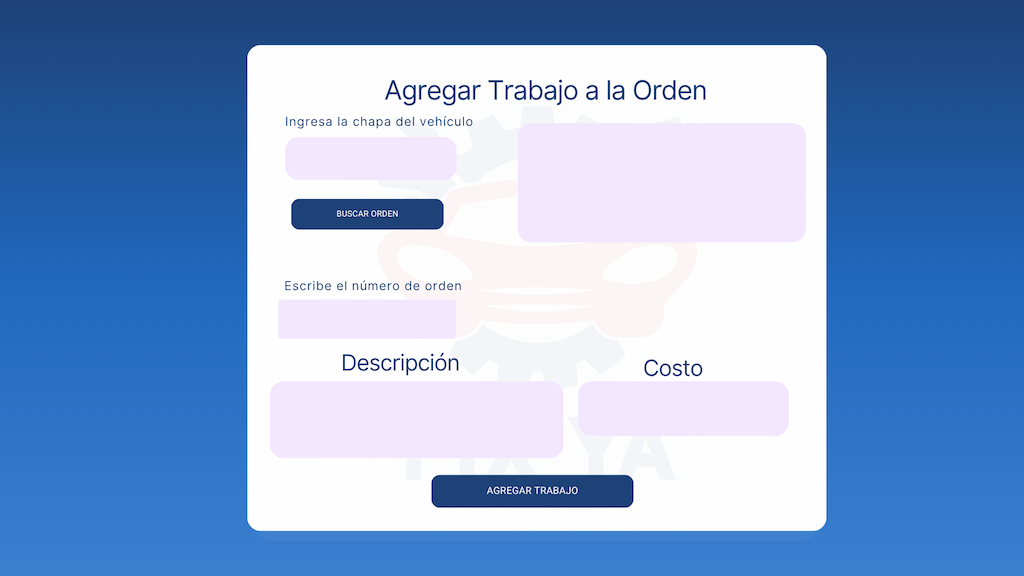
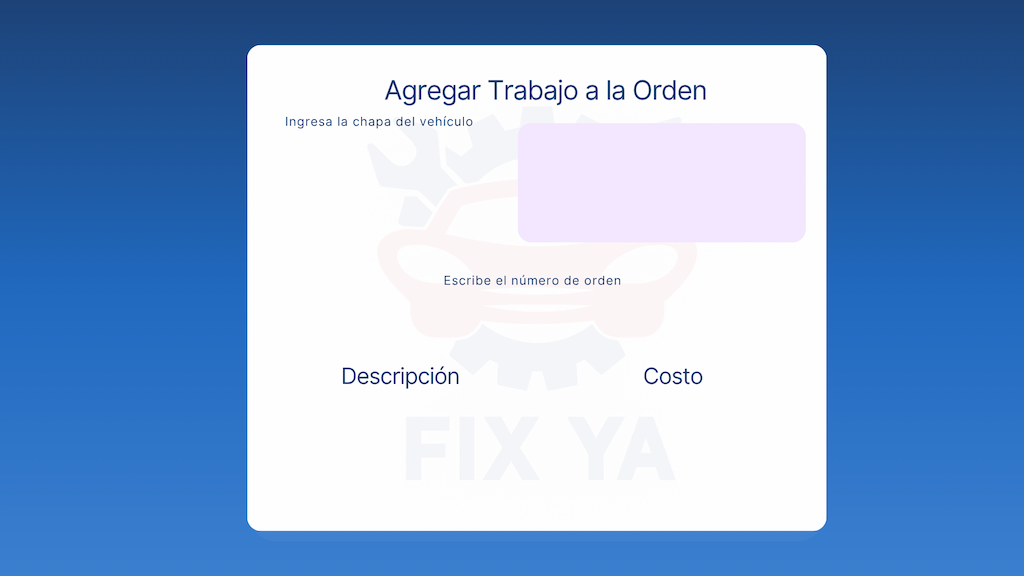
Detalles finales Frames

diff --git a/src/main/java/com/mycompany/fixya/CrearVehiculoFrame.java b/src/main/java/com/mycompany/fixya/CrearVehiculoFrame.java
@@ -61,19 +61,24 @@ public class CrearVehiculoFrame extends javax.swing.JFrame {
                 fabricanteFieldActionPerformed(evt);
             }
         });
-        bg.add(fabricanteField, new org.netbeans.lib.awtextra.AbsoluteConstraints(300, 110, 380, 50));
+        bg.add(fabricanteField, new org.netbeans.lib.awtextra.AbsoluteConstraints(300, 120, 380, 40));
 
         modeloField.addActionListener(new java.awt.event.ActionListener() {
             public void actionPerformed(java.awt.event.ActionEvent evt) {
                 modeloFieldActionPerformed(evt);
             }
         });
-        bg.add(modeloField, new org.netbeans.lib.awtextra.AbsoluteConstraints(300, 180, 380, 50));
-        bg.add(anioField, new org.netbeans.lib.awtextra.AbsoluteConstraints(300, 250, 380, 50));
-        bg.add(chapaField, new org.netbeans.lib.awtextra.AbsoluteConstraints(300, 330, 380, 50));
+        bg.add(modeloField, new org.netbeans.lib.awtextra.AbsoluteConstraints(300, 190, 380, 40));
+        bg.add(anioField, new org.netbeans.lib.awtextra.AbsoluteConstraints(300, 260, 380, 40));
+        bg.add(chapaField, new org.netbeans.lib.awtextra.AbsoluteConstraints(300, 330, 380, 40));
 
         dniField.setToolTipText("");
-        bg.add(dniField, new org.netbeans.lib.awtextra.AbsoluteConstraints(300, 400, 380, 50));
+        dniField.addActionListener(new java.awt.event.ActionListener() {
+            public void actionPerformed(java.awt.event.ActionEvent evt) {
+                dniFieldActionPerformed(evt);
+            }
+        });
+        bg.add(dniField, new org.netbeans.lib.awtextra.AbsoluteConstraints(300, 410, 380, 40));
 
         registrarVehiculoBtn.setBackground(new java.awt.Color(51, 102, 255));
         registrarVehiculoBtn.setFont(new java.awt.Font("Helvetica Neue", 1, 18)); // NOI18N
@@ -85,9 +90,9 @@ public class CrearVehiculoFrame extends javax.swing.JFrame {
                 registrarVehiculoBtnActionPerformed(evt);
             }
         });
-        bg.add(registrarVehiculoBtn, new org.netbeans.lib.awtextra.AbsoluteConstraints(410, 460, 220, 50));
+        bg.add(registrarVehiculoBtn, new org.netbeans.lib.awtextra.AbsoluteConstraints(550, 460, 210, 40));
 
-        imagen.setIcon(new javax.swing.ImageIcon(getClass().getResource("/RegistrarVehiculo.png"))); // NOI18N
+        imagen.setIcon(new javax.swing.ImageIcon(getClass().getResource("/RegistrarVehiculo (1).png"))); // NOI18N
         bg.add(imagen, new org.netbeans.lib.awtextra.AbsoluteConstraints(0, 0, -1, 570));
 
         javax.swing.GroupLayout layout = new javax.swing.GroupLayout(getContentPane());
@@ -125,6 +130,10 @@ public class CrearVehiculoFrame extends javax.swing.JFrame {
         new MenuVehiculoFrame().setVisible(true);
         dispose();
     }//GEN-LAST:event_volverBtnActionPerformed
+
+    private void dniFieldActionPerformed(java.awt.event.ActionEvent evt) {//GEN-FIRST:event_dniFieldActionPerformed
+        // TODO add your handling code here:
+    }//GEN-LAST:event_dniFieldActionPerformed
 
     public void registrarVehiculo(){
     String fabricante = fabricanteField.getText();

diff --git a/src/main/java/com/mycompany/fixya/CambiarEstadoOrdenFrame.java b/src/main/java/com/mycompany/fixya/CambiarEstadoOrdenFrame.java
@@ -56,7 +56,7 @@ public class CambiarEstadoOrdenFrame extends javax.swing.JFrame {
                 ordenIdFieldActionPerformed(evt);
             }
         });
-        jPanel1.add(ordenIdField, new org.netbeans.lib.awtextra.AbsoluteConstraints(280, 330, 210, 50));
+        jPanel1.add(ordenIdField, new org.netbeans.lib.awtextra.AbsoluteConstraints(290, 330, 180, 40));
 
         buscarOrdenBtn.setBackground(new java.awt.Color(51, 102, 255));
         buscarOrdenBtn.setFont(new java.awt.Font("Helvetica Neue", 1, 18)); // NOI18N
@@ -69,7 +69,7 @@ public class CambiarEstadoOrdenFrame extends javax.swing.JFrame {
                 buscarOrdenBtnActionPerformed(evt);
             }
         });
-        jPanel1.add(buscarOrdenBtn, new org.netbeans.lib.awtextra.AbsoluteConstraints(310, 220, 160, 40));
+        jPanel1.add(buscarOrdenBtn, new org.netbeans.lib.awtextra.AbsoluteConstraints(300, 210, 160, 40));
 
         estadosComboBox.setModel(new javax.swing.DefaultComboBoxModel<>(new String[] { "Espera", "Proceso", "Terminada" }));
         estadosComboBox.addActionListener(new java.awt.event.ActionListener() {
@@ -77,7 +77,7 @@ public class CambiarEstadoOrdenFrame extends javax.swing.JFrame {
                 estadosComboBoxActionPerformed(evt);
             }
         });
-        jPanel1.add(estadosComboBox, new org.netbeans.lib.awtextra.AbsoluteConstraints(550, 330, 200, 50));
+        jPanel1.add(estadosComboBox, new org.netbeans.lib.awtextra.AbsoluteConstraints(540, 330, 210, 40));
 
         chapaField.setHorizontalAlignment(javax.swing.JTextField.CENTER);
         chapaField.addActionListener(new java.awt.event.ActionListener() {
@@ -85,7 +85,7 @@ public class CambiarEstadoOrdenFrame extends javax.swing.JFrame {
                 chapaFieldActionPerformed(evt);
             }
         });
-        jPanel1.add(chapaField, new org.netbeans.lib.awtextra.AbsoluteConstraints(300, 150, 170, 50));
+        jPanel1.add(chapaField, new org.netbeans.lib.awtextra.AbsoluteConstraints(290, 150, 180, 40));
 
         cambiarEstadoOrdenBtn.setBackground(new java.awt.Color(51, 102, 255));
         cambiarEstadoOrdenBtn.setFont(new java.awt.Font("Helvetica Neue", 1, 18)); // NOI18N
@@ -98,9 +98,9 @@ public class CambiarEstadoOrdenFrame extends javax.swing.JFrame {
                 cambiarEstadoOrdenBtnActionPerformed(evt);
             }
         });
-        jPanel1.add(cambiarEstadoOrdenBtn, new org.netbeans.lib.awtextra.AbsoluteConstraints(420, 400, 220, 50));
+        jPanel1.add(cambiarEstadoOrdenBtn, new org.netbeans.lib.awtextra.AbsoluteConstraints(420, 420, 220, 50));
 
-        jLabel1.setIcon(new javax.swing.ImageIcon(getClass().getResource("/AgregarTrabajoOrden.Mejoradopng.png"))); // NOI18N
+        jLabel1.setIcon(new javax.swing.ImageIcon(getClass().getResource("/Agregar Trabajo Orden (2).png"))); // NOI18N
         jPanel1.add(jLabel1, new org.netbeans.lib.awtextra.AbsoluteConstraints(0, 0, 1020, 570));
 
         ordenesTable.setModel(new javax.swing.table.DefaultTableModel(

diff --git a/src/main/java/com/mycompany/fixya/AgregarTrabajoOrdenFrame.java b/src/main/java/com/mycompany/fixya/AgregarTrabajoOrdenFrame.java
@@ -55,10 +55,10 @@ public class AgregarTrabajoOrdenFrame extends javax.swing.JFrame {
         jPanel1.setLayout(new org.netbeans.lib.awtextra.AbsoluteLayout());
 
         descripcionField.setHorizontalAlignment(javax.swing.JTextField.CENTER);
-        jPanel1.add(descripcionField, new org.netbeans.lib.awtextra.AbsoluteConstraints(270, 380, 300, 80));
+        jPanel1.add(descripcionField, new org.netbeans.lib.awtextra.AbsoluteConstraints(270, 390, 290, 70));
 
         costoField.setHorizontalAlignment(javax.swing.JTextField.CENTER);
-        jPanel1.add(costoField, new org.netbeans.lib.awtextra.AbsoluteConstraints(580, 380, 210, 50));
+        jPanel1.add(costoField, new org.netbeans.lib.awtextra.AbsoluteConstraints(580, 390, 210, 40));
 
         chapaField.setHorizontalAlignment(javax.swing.JTextField.CENTER);
         chapaField.setToolTipText("");
@@ -67,10 +67,10 @@ public class AgregarTrabajoOrdenFrame extends javax.swing.JFrame {
                 chapaFieldActionPerformed(evt);
             }
         });
-        jPanel1.add(chapaField, new org.netbeans.lib.awtextra.AbsoluteConstraints(280, 130, 190, 50));
+        jPanel1.add(chapaField, new org.netbeans.lib.awtextra.AbsoluteConstraints(280, 130, 190, 40));
 
         idOrdenField.setHorizontalAlignment(javax.swing.JTextField.CENTER);
-        jPanel1.add(idOrdenField, new org.netbeans.lib.awtextra.AbsoluteConstraints(270, 290, 190, 50));
+        jPanel1.add(idOrdenField, new org.netbeans.lib.awtextra.AbsoluteConstraints(400, 290, 280, 40));
 
         buscarOrden.setBackground(new java.awt.Color(51, 102, 255));
         buscarOrden.setFont(new java.awt.Font("Helvetica Neue", 1, 18)); // NOI18N
@@ -83,7 +83,7 @@ public class AgregarTrabajoOrdenFrame extends javax.swing.JFrame {
                 buscarOrdenActionPerformed(evt);
             }
         });
-        jPanel1.add(buscarOrden, new org.netbeans.lib.awtextra.AbsoluteConstraints(280, 190, 180, 40));
+        jPanel1.add(buscarOrden, new org.netbeans.lib.awtextra.AbsoluteConstraints(280, 180, 180, 40));
 
         agregarTrabajoBtn.setBackground(new java.awt.Color(51, 102, 255));
         agregarTrabajoBtn.setFont(new java.awt.Font("Helvetica Neue", 1, 18)); // NOI18N

diff --git a/src/main/java/com/mycompany/fixya/BuscarOrdenFrame.java b/src/main/java/com/mycompany/fixya/BuscarOrdenFrame.java
@@ -33,7 +33,6 @@ public class BuscarOrdenFrame extends javax.swing.JFrame {
         volverBtn = new javax.swing.JButton();
         buscarOrdenBtn = new javax.swing.JButton();
         chapaField = new javax.swing.JTextField();
-        ocultarFondoPanel = new javax.swing.JPanel();
         jLabel1 = new javax.swing.JLabel();
         jScrollPane1 = new javax.swing.JScrollPane();
         ordenesTable = new javax.swing.JTable();
@@ -74,22 +73,6 @@ public class BuscarOrdenFrame extends javax.swing.JFrame {
             }
         });
         bg.add(chapaField, new org.netbeans.lib.awtextra.AbsoluteConstraints(340, 130, 390, 60));
-
-        ocultarFondoPanel.setBackground(new java.awt.Color(255, 255, 255));
-        ocultarFondoPanel.setForeground(new java.awt.Color(255, 255, 255));
-
-        javax.swing.GroupLayout ocultarFondoPanelLayout = new javax.swing.GroupLayout(ocultarFondoPanel);
-        ocultarFondoPanel.setLayout(ocultarFondoPanelLayout);
-        ocultarFondoPanelLayout.setHorizontalGroup(
-            ocultarFondoPanelLayout.createParallelGroup(javax.swing.GroupLayout.Alignment.LEADING)
-            .addGap(0, 430, Short.MAX_VALUE)
-        );
-        ocultarFondoPanelLayout.setVerticalGroup(
-            ocultarFondoPanelLayout.createParallelGroup(javax.swing.GroupLayout.Alignment.LEADING)
-            .addGap(0, 260, Short.MAX_VALUE)
-        );
-
-        bg.add(ocultarFondoPanel, new org.netbeans.lib.awtextra.AbsoluteConstraints(340, 250, 430, 260));
 
         jLabel1.setBackground(new java.awt.Color(255, 255, 255));
         jLabel1.setIcon(new javax.swing.ImageIcon(getClass().getResource("/BuscarOrden (1).png"))); // NOI18N
@@ -177,7 +160,6 @@ public class BuscarOrdenFrame extends javax.swing.JFrame {
     private javax.swing.JTextField chapaField;
     private javax.swing.JLabel jLabel1;
     private javax.swing.JScrollPane jScrollPane1;
-    private javax.swing.JPanel ocultarFondoPanel;
     private javax.swing.JTable ordenesTable;
     private javax.swing.JButton volverBtn;
     // End of variables declaration//GEN-END:variables

diff --git a/src/main/java/com/mycompany/fixya/VerTrabajosPorOrdenFrame.java b/src/main/java/com/mycompany/fixya/VerTrabajosPorOrdenFrame.java
@@ -45,7 +45,7 @@ public class VerTrabajosPorOrdenFrame extends javax.swing.JFrame {
 
         bg.setPreferredSize(new java.awt.Dimension(1020, 570));
         bg.setLayout(new org.netbeans.lib.awtextra.AbsoluteLayout());
-        bg.add(ordenIdField, new org.netbeans.lib.awtextra.AbsoluteConstraints(480, 260, 150, 50));
+        bg.add(ordenIdField, new org.netbeans.lib.awtextra.AbsoluteConstraints(490, 270, 130, 30));
 
         verTrabajosBtn.setBackground(new java.awt.Color(51, 102, 255));
         verTrabajosBtn.setFont(new java.awt.Font("Helvetica Neue", 1, 18)); // NOI18N
@@ -58,8 +58,8 @@ public class VerTrabajosPorOrdenFrame extends javax.swing.JFrame {
                 verTrabajosBtnActionPerformed(evt);
             }
         });
-        bg.add(verTrabajosBtn, new org.netbeans.lib.awtextra.AbsoluteConstraints(640, 270, 160, 40));
-        bg.add(chapaField, new org.netbeans.lib.awtextra.AbsoluteConstraints(300, 160, 180, 50));
+        bg.add(verTrabajosBtn, new org.netbeans.lib.awtextra.AbsoluteConstraints(630, 270, 160, 40));
+        bg.add(chapaField, new org.netbeans.lib.awtextra.AbsoluteConstraints(300, 160, 180, 40));
 
         buscarOrdenBtn.setBackground(new java.awt.Color(51, 102, 255));
         buscarOrdenBtn.setFont(new java.awt.Font("Helvetica Neue", 1, 18)); // NOI18N
@@ -85,7 +85,7 @@ public class VerTrabajosPorOrdenFrame extends javax.swing.JFrame {
         });
         bg.add(volverBtn, new org.netbeans.lib.awtextra.AbsoluteConstraints(30, 530, -1, -1));
 
-        jLabel1.setIcon(new javax.swing.ImageIcon(getClass().getResource("/TrabajosDeLaOrden.png"))); // NOI18N
+        jLabel1.setIcon(new javax.swing.ImageIcon(getClass().getResource("/Agregar Trabajo Orden (1).png"))); // NOI18N
         bg.add(jLabel1, new org.netbeans.lib.awtextra.AbsoluteConstraints(0, 0, -1, -1));
 
         ordenesTable.setModel(new javax.swing.table.DefaultTableModel(

diff --git a/src/main/java/com/mycompany/fixya/CrearClienteFrame.java b/src/main/java/com/mycompany/fixya/CrearClienteFrame.java
@@ -89,7 +89,7 @@ public class CrearClienteFrame extends javax.swing.JFrame {
                 crearClienteBtnActionPerformed(evt);
             }
         });
-        bg.add(crearClienteBtn, new org.netbeans.lib.awtextra.AbsoluteConstraints(570, 470, 220, 50));
+        bg.add(crearClienteBtn, new org.netbeans.lib.awtextra.AbsoluteConstraints(590, 480, 200, 40));
 
         dniField.setHorizontalAlignment(javax.swing.JTextField.CENTER);
         dniField.addActionListener(new java.awt.event.ActionListener() {
@@ -97,7 +97,7 @@ public class CrearClienteFrame extends javax.swing.JFrame {
                 dniFieldActionPerformed(evt);
             }
         });
-        bg.add(dniField, new org.netbeans.lib.awtextra.AbsoluteConstraints(340, 420, 370, 40));
+        bg.add(dniField, new org.netbeans.lib.awtextra.AbsoluteConstraints(340, 430, 370, 40));
 
         nombreField.setHorizontalAlignment(javax.swing.JTextField.CENTER);
         nombreField.addActionListener(new java.awt.event.ActionListener() {

diff --git a/src/main/java/com/mycompany/fixya/BuscarVehiculoFrame.java b/src/main/java/com/mycompany/fixya/BuscarVehiculoFrame.java
@@ -38,6 +38,7 @@ public class BuscarVehiculoFrame extends javax.swing.JFrame {
         vehiculosTable = new javax.swing.JTable();
 
         setDefaultCloseOperation(javax.swing.WindowConstants.EXIT_ON_CLOSE);
+        setResizable(false);
         getContentPane().setLayout(new org.netbeans.lib.awtextra.AbsoluteLayout());
 
         volverBtn.setBackground(new java.awt.Color(102, 102, 102));
@@ -84,6 +85,7 @@ public class BuscarVehiculoFrame extends javax.swing.JFrame {
         getContentPane().add(jScrollPane1, new org.netbeans.lib.awtextra.AbsoluteConstraints(340, 281, 430, 230));
 
         pack();
+        setLocationRelativeTo(null);
     }// </editor-fold>//GEN-END:initComponents
 
     private void volverBtnActionPerformed(java.awt.event.ActionEvent evt) {//GEN-FIRST:event_volverBtnActionPerformed

diff --git a/src/main/java/com/mycompany/fixya/MenuPrincipalFrame.java b/src/main/java/com/mycompany/fixya/MenuPrincipalFrame.java
@@ -91,7 +91,7 @@ public class MenuPrincipalFrame extends javax.swing.JFrame {
         });
         bg.add(menuOrdenesBtn, new org.netbeans.lib.awtextra.AbsoluteConstraints(660, 390, 120, 30));
 
-        imagen.setIcon(new javax.swing.ImageIcon(getClass().getResource("/Menuprincipal.png"))); // NOI18N
+        imagen.setIcon(new javax.swing.ImageIcon(getClass().getResource("/CrearCuenta2 (1).png"))); // NOI18N
         bg.add(imagen, new org.netbeans.lib.awtextra.AbsoluteConstraints(0, 0, 1020, 580));
 
         javax.swing.GroupLayout layout = new javax.swing.GroupLayout(getContentPane());

diff --git a/src/main/java/com/mycompany/fixya/BuscarClienteFrame.java b/src/main/java/com/mycompany/fixya/BuscarClienteFrame.java
@@ -57,8 +57,7 @@ public class BuscarClienteFrame extends javax.swing.JFrame {
         });
         bg.add(volverBtn, new org.netbeans.lib.awtextra.AbsoluteConstraints(30, 530, -1, -1));
 
-        dniField.setBackground(new java.awt.Color(255, 255, 255));
-        dniField.setHorizontalAlignment(javax.swing.JTextField.CENTER);
+        dniField.setHorizontalAlignment(javax.swing.JTextField.LEFT);
         dniField.addActionListener(new java.awt.event.ActionListener() {
             public void actionPerformed(java.awt.event.ActionEvent evt) {
                 dniFieldActionPerformed(evt);
